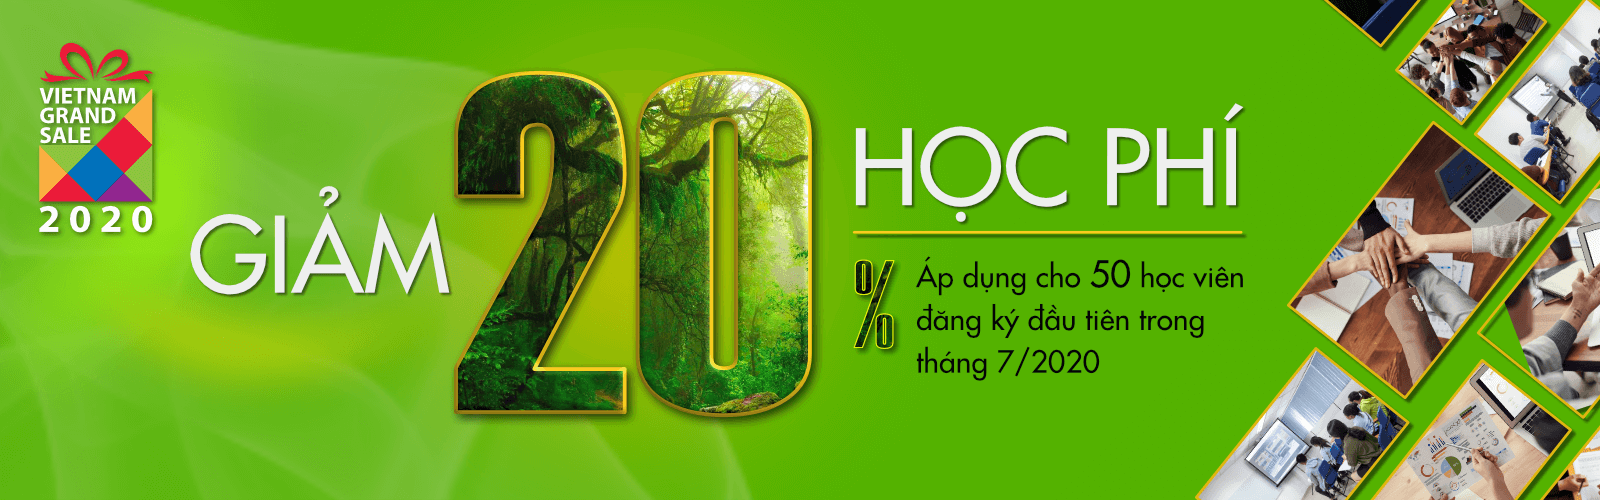
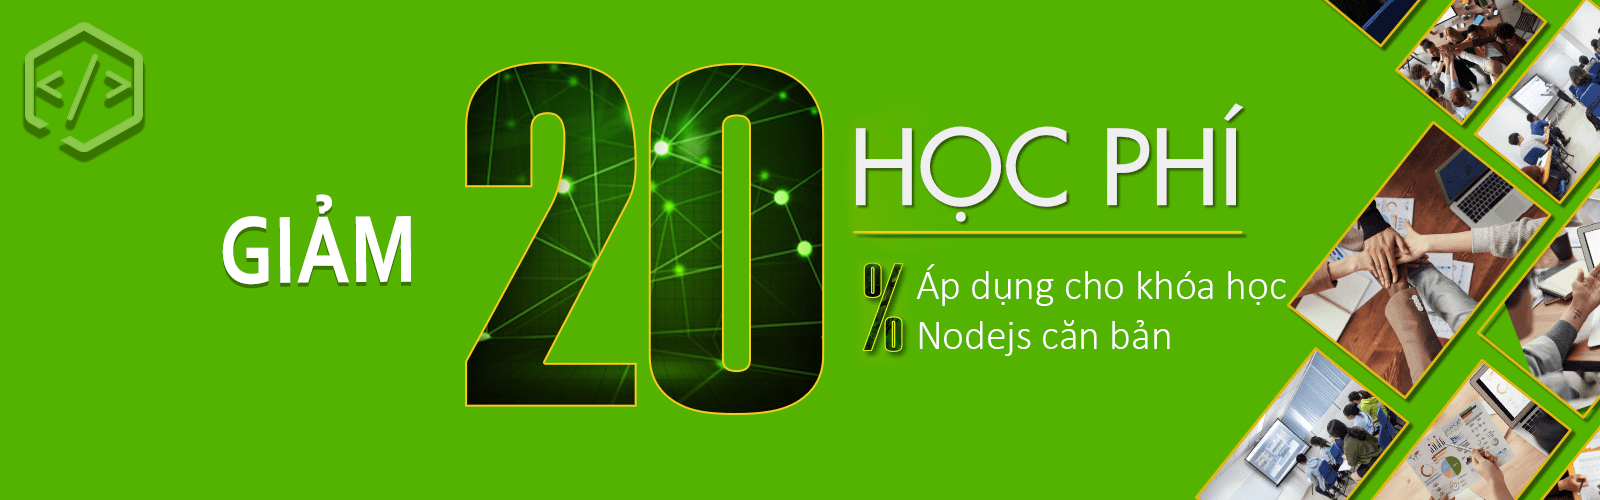
update index

diff --git a/views/index.html b/views/index.html
@@ -79,7 +79,7 @@
                     <img src="../static/images/WebCED3.png" class="d-block w-100" alt="...">
                 </div>
                 <div class="carousel-item">
-                    <img src="../static/images/WebCED2.png" class="d-block w-100" alt="...">
+                    <img src="../static/images/WebCED20.png" class="d-block w-100" alt="...">
                 </div>
                 <div class="carousel-item">
                     <img src="../static/images/WebCED.png" class="d-block w-100" alt="...">
